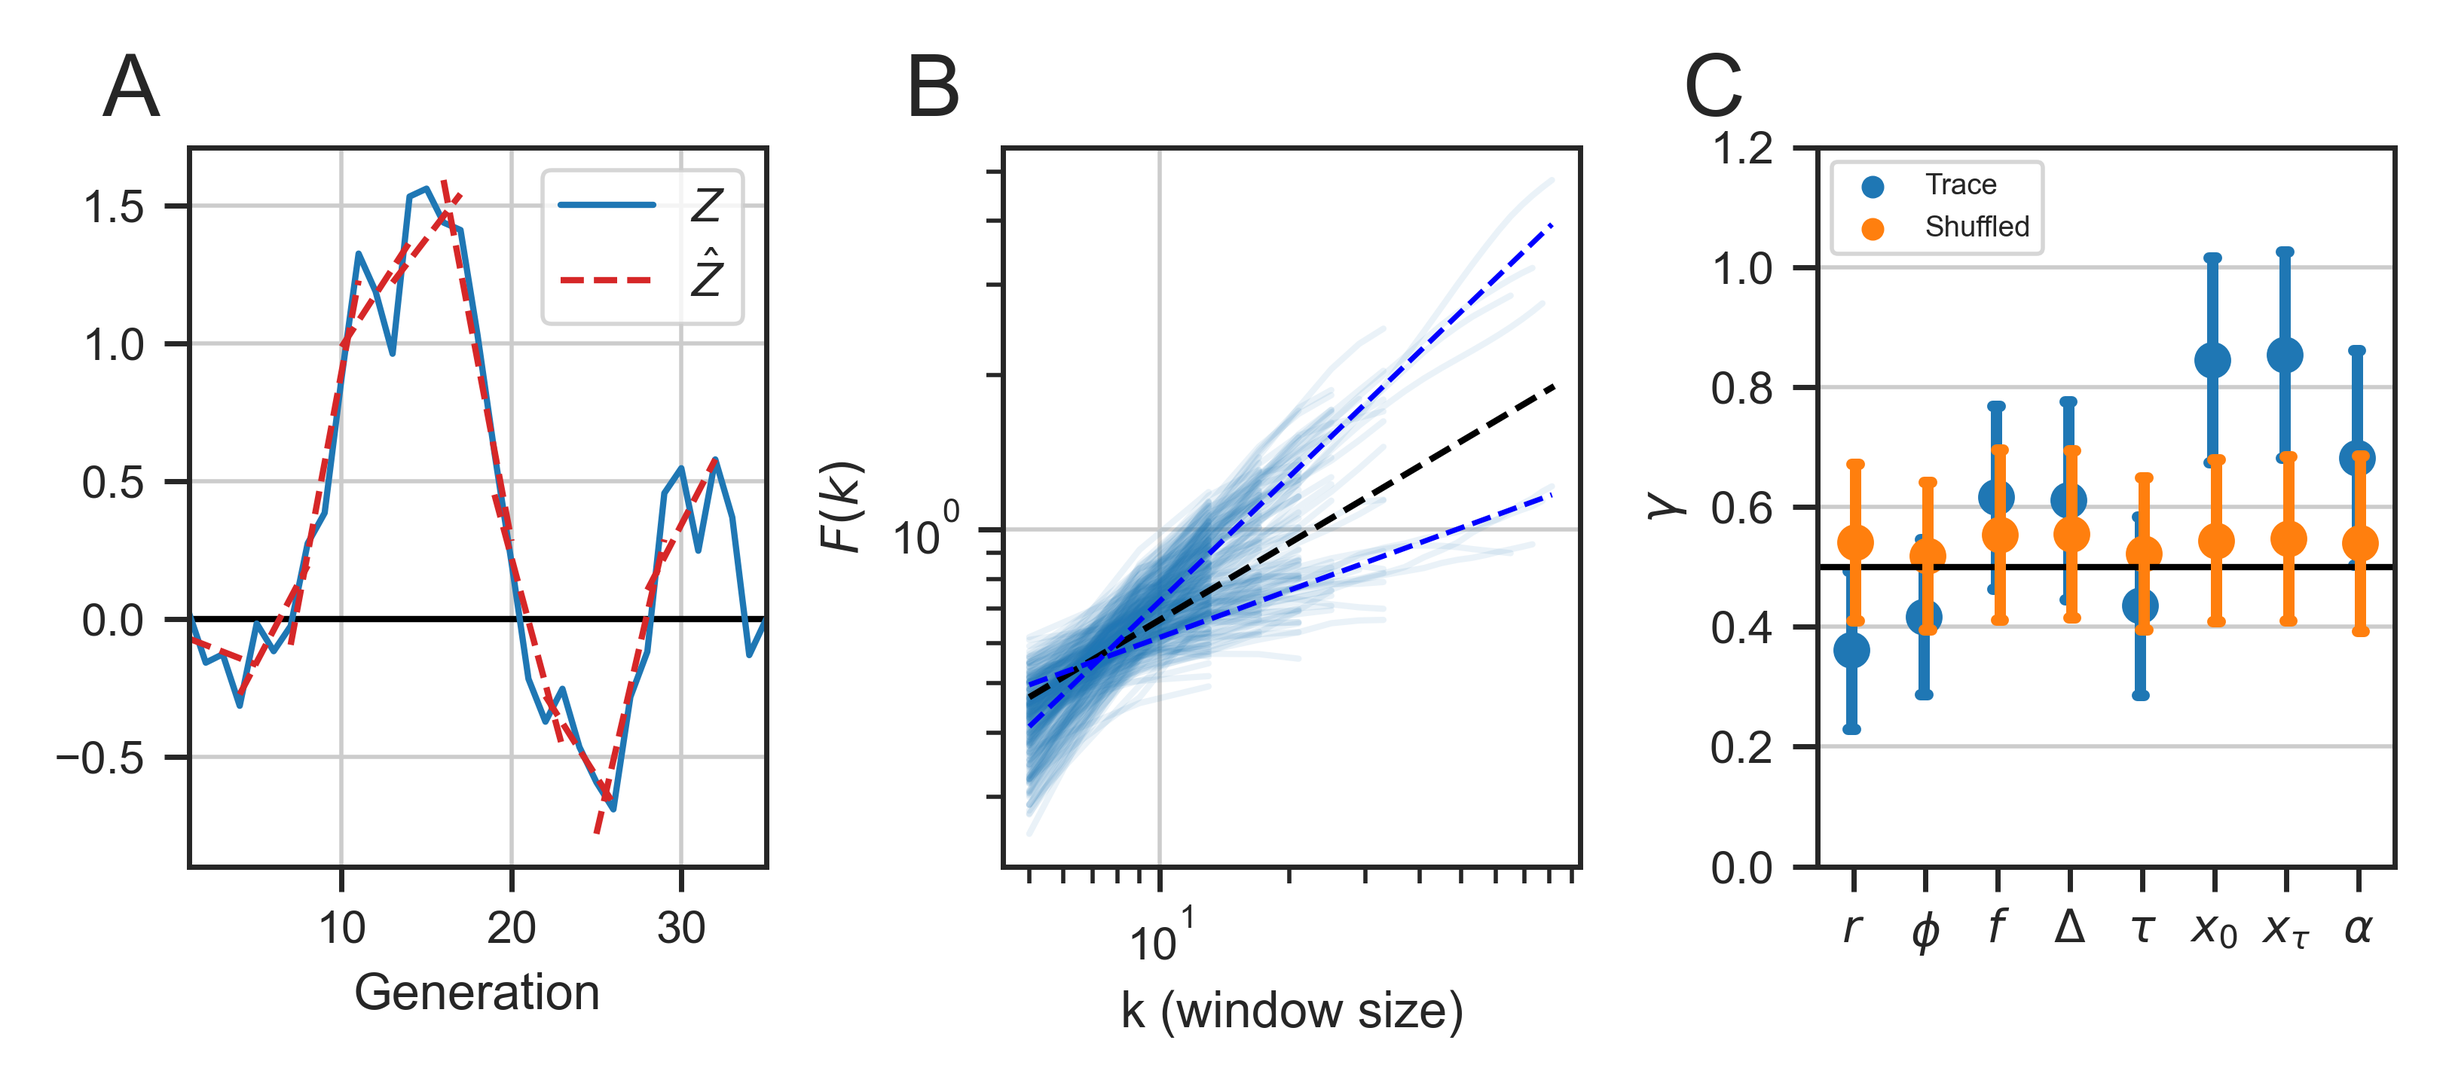
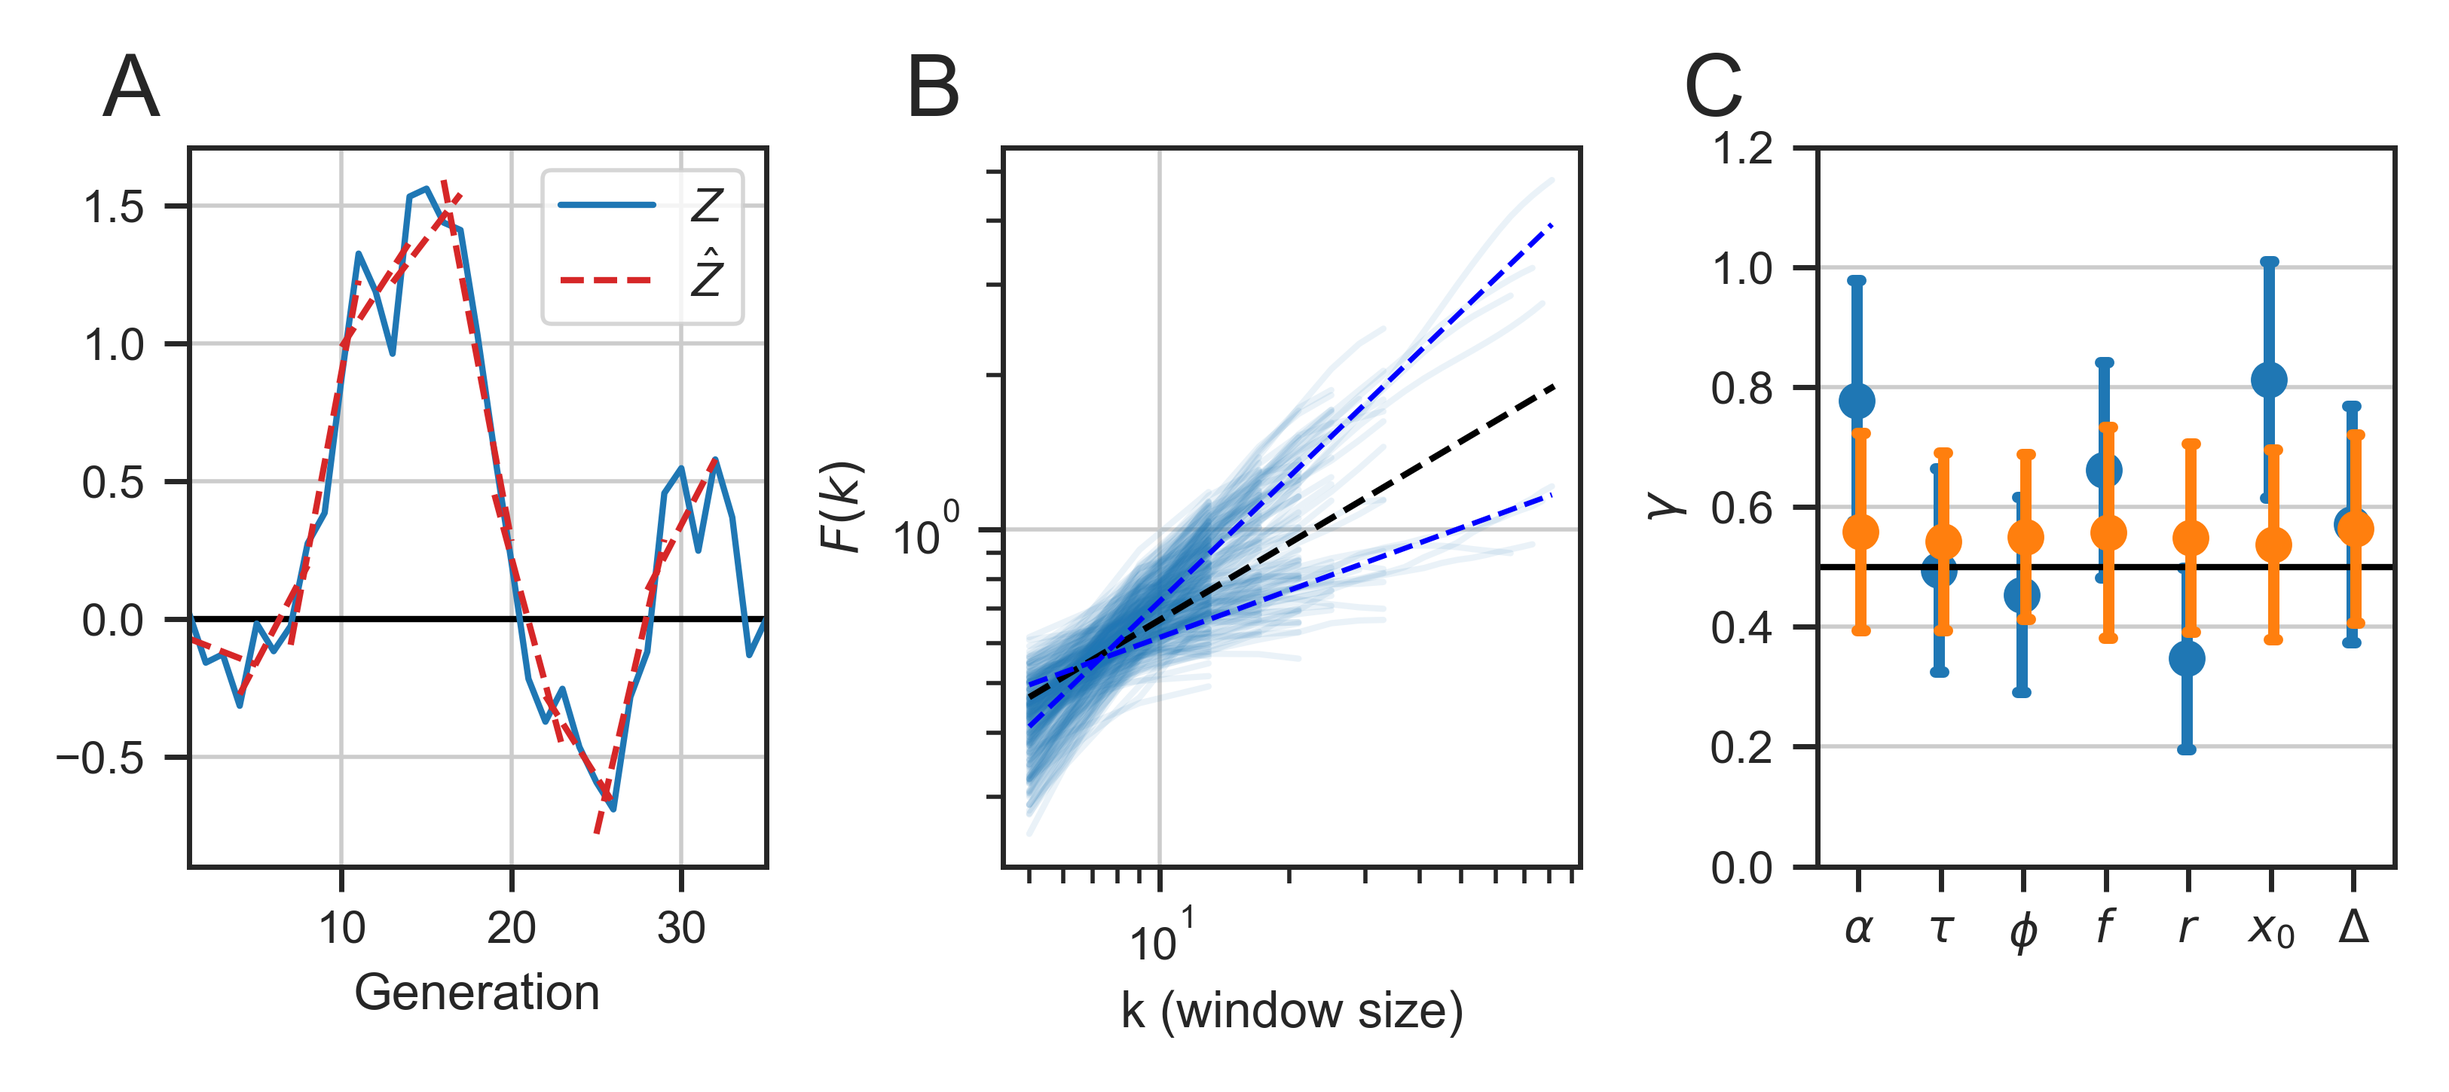
16/3/21

Changed region(s): [[0.7458, 0.1241, 0.9945, 0.6828], [0.7458, 0.8379, 0.9634, 0.869]]

diff --git a/TablesSupp/create tables.py b/TablesSupp/create tables.py
@@ -6,69 +6,60 @@ from AnalysisCode.global_variables import (
 import pandas as pd
 import numpy as np
 
+
+ds_names = [ds for ds in dataset_names if ds != 'Pooled_SM']
+
+# Different strains of all the
 strain = [
-    'MG1655', 'MG1655', 'MG1655', 'MG1655', 'MG1655', 'MG1655', 'MG1655', 'MG1655', 'K-12 substr. MC4100', 'K-12 substr. MC4100', 'K-12 substr. MC4100', 'B/r SJ119', 'MG1655 lexA3', 'MG1655 lexA3',
-    'MG1655 lexA3', 'MG1655 (CGSC 6300)', 'MG1655 (CGSC 6300)', 'MG1655 (CGSC 6300)', 'MG1655 (CGSC 6300)', 'MG1655 (CGSC 6300)', 'MG1655 (CGSC 6300)'
+    'MG1655', 'MG1655', 'MG1655', 'MG1655', 'MG1655', 'MG1655', 'MG1655', 'MG1655', 'K-12 substr. MC4100', 'K-12 substr. MC4100', 'K-12 substr. MC4100', 'MG1655 (CGSC 6300)', 'MG1655 (CGSC 6300)',
+    'MG1655 (CGSC 6300)', 'MG1655 (CGSC 6300)', 'MG1655 (CGSC 6300)', 'MG1655 (CGSC 6300)', 'MG1655 lexA3', 'MG1655 lexA3', 'MG1655 lexA3'
 ]
 
-dates = ['15/10/18', '27/6/18', '13/7/18', '28/7/18', '12/10/18', 'Pooled exps.', 'Pooled exps.', 'Pooled exps.', '', '', '', '29/5/9', '30/9/9', '23/9/9', '22/9/9', '10/2/9',
-         '29/1/9', '2/7/9', '31/1/9', '25/5/9', '12/5/9']
+dates = ['15/10/18', '27/06/18', '13/07/18', '28/07/18', '12/10/18', 'Pooled exps.', 'Pooled exps.', 'Pooled exps.', '', '', '', '10/02/09', '29/01/09', '02/07/09', '31/01/09', '25/05/09',
+         '12/05/09', '30/09/09', '23/09/09', '22/09/09']
+# dates = ['15/10/18', '27/06/18', '13/07/18', '28/07/18', '12/10/18', 'Pooled exps.', 'Pooled exps.', 'Pooled exps.', '', '', '', '29/5/09', '30/9/09', '23/9/09', '22/9/09', '10/2/09',
+#          '29/1/09', '2/7/09', '31/1/09', '25/5/09', '12/5/09']
 
 temp = ['32', '32', '32', '32', '32', '32', '32', '32', '25', '27', '37', '37', '37', '37', '37', '37', '37', '37', '37', '37']
+# temp = ['32', '32', '32', '32', '32', '32', '32', '32', '25', '27', '37', '37', '37', '37', '37', '37', '37', '37', '37', '37']
 
 references = [
     'Vashistha 2021', 'Vashistha 2021', 'Vashistha 2021', 'Vashistha 2021', 'Vashistha 2021',
-    'Susman 2018', 'Korham 2020', 'Susman 2018', 'Tanouchi 2015 (25C)', 'Tanouchi 2015 (27C)', 'Tanouchi 2015 (37C)', 'Wang 2010 (10/2/9)', 'Wang 2010 (29/1/9)',
-    'Wang 2010 (2/7/9)', 'Wang 2010 (31/1/9)', 'Wang 2010 (25/5/9)', 'Wang 2010 (12/5/9)', 'Wang 2010 (30/9/9)', 'Wang 2010 (23/9/9)', 'Wang 2010 (22/9/9)'
+    'Susman 2018', 'Korham 2020', 'Susman 2018', 'Tanouchi 2015', 'Tanouchi 2015', 'Tanouchi 2015', 'Wang 2010', 'Wang 2010',
+    'Wang 2010', 'Wang 2010', 'Wang 2010', 'Wang 2010', 'Wang 2010', 'Wang 2010', 'Wang 2010'
 ]
 
 num_of_lineages = []
 
 generation_per_lineage = []
 
-ds_names = [ds for ds in dataset_names if ds != 'Pooled_SM']
-
 for ds in ds_names:
     print(ds)
+    # import the data
     pu = pd.read_csv(f'/Users/alestawsky/PycharmProjects/Thesis/Datasets/{ds}/ProcessedData/z_score_under_3/physical_units_without_outliers.csv')
+    # number of lineages
     num_of_lineages.append(len(pu.lineage_ID.unique()))
+    # mean and std of gen per lineage
     m = np.mean([len(pu[pu['lineage_ID'] == lin_id]['generation'].values) for lin_id in pu.lineage_ID.unique()])
     s = np.std([len(pu[pu['lineage_ID'] == lin_id]['generation'].values) for lin_id in pu.lineage_ID.unique()])
-    generation_per_lineage.append(f'${int(np.round(m, 0))}\pm{int(np.round(s, 0))}$')
+    generation_per_lineage.append(f'${int(np.round(m, 0))}\pm{int(np.round(s, 0))}$')  # Add it as a string
 
-for name, group in zip(['Wang 2010, CGSC 6300', 'Wang 2010, lexA3', 'Susman and Kohram', 'Vashistha 2021', 'Tanouchi 25C', 'Tanouchi 27C', 'Tanouchi 37C'],
-                       [cgsc_6300_wang_exps, lexA3_wang_exps, mm_datasets, ['Pooled_SM'], ['MC4100_25C (Tanouchi 2015)'], ['MC4100_27C (Tanouchi 2015)'], ['MC4100_37C (Tanouchi 2015)']]):
-    print(name, group)
-    
-    for ds in group:
-        print(ds)
-        pu = pd.read_csv(f'/Users/alestawsky/PycharmProjects/Thesis/Datasets/{ds}/ProcessedData/z_score_under_3/physical_units_without_outliers.csv')
-        num_of_lineages.append(len(pu.lineage_ID.unique()))
-        m = np.mean([len(pu[pu['lineage_ID'] == lin_id]['generation'].values) for lin_id in pu.lineage_ID.unique()])
-        s = np.std([len(pu[pu['lineage_ID'] == lin_id]['generation'].values) for lin_id in pu.lineage_ID.unique()])
-        generation_per_lineage.append(f'${m}\pm{s}$')
-
-print(len(ds_names), len(references))
+assert len(ds_names) == len(dates) == len(strain) == len(references) == len(temp) == len(generation_per_lineage)
 
 gc = {count: {
     'Exp.': f'${count}$', 'Ref.': ref, '# of lins.':  f'${nl}$', '# of gens.': gpl, 'Temp. (C)':  f'${t}$', 'Strain':  stra,
     'Date':  f'${da}$'
-} for ds, ref, count, nl, gpl, t, stra, da in zip(dataset_names, references, range(len(references)), num_of_lineages, generation_per_lineage, temp, strain, dates) if ds != 'Pooled_SM'}
+} for ds, ref, count, nl, gpl, t, stra, da in zip(ds_names, references, range(len(references)), num_of_lineages, generation_per_lineage, temp, strain, dates)}
 
 growth_conditions = pd.DataFrame.from_dict(gc, "index")
 
 print(growth_conditions.to_latex(float_format="{:0.2f}".format, index=False, escape=False))
 
-length_latex = pd.DataFrame(columns=['Exp.',
-                                     '# of lineages',
-                                     '# of cycles per lineage',
-                                     '# lineages with at least 30 cycles'])
+
 cv_latex = pd.DataFrame(columns=['Experiment Label'] + [symbols['physical_units'][p] for p in phenotypic_variables])
 
 count = 0
-for ds in dataset_names:
-    if ds == 'Pooled_SM':
-        continue
+for ds in ds_names:
     print(count, ds)
     
     pu = pd.read_csv(f'/Users/alestawsky/PycharmProjects/Thesis/Datasets/{ds}/ProcessedData/z_score_under_3/physical_units_without_outliers.csv')
@@ -80,9 +71,20 @@ for ds in dataset_names:
     cv_latex = cv_latex.append(to_add, ignore_index=True)
     
     count += 1
+ 
+to_add = {'Experiment Label': 'CV'}
+# print('999')
+#
+# print(np.round(cv_latex.mean(), 2))
+# print(np.round(cv_latex.std(), 2))
+# print(np.round(cv_latex.std() / cv_latex.mean(), 2))
+#
+# exit()
 
-print(cv_latex.mean())
+# for m, s, p in zip(np.round(cv_latex.mean(), 2).values[1:], np.round(cv_latex.std(), 2).values[1:], np.array(cv_latex.columns)[1:]):
+#     print(p, s / m)
+to_add.update({p: f'{m} {s}' for m, s, p in zip(np.round(cv_latex.mean(), 2).values[1:], np.round(cv_latex.std(), 2).values[1:], np.array(cv_latex.columns)[1:])})
 
-print(cv_latex.std())
+cv_latex = cv_latex.append(to_add, ignore_index=True)
 
 print(cv_latex.to_latex(float_format="{:0.2f}".format, index=False))

diff --git a/ConditionedVariance/variance_decomposed.py b/ConditionedVariance/variance_decomposed.py
@@ -134,11 +134,11 @@ def vd_with_trap_and_lineage(variables, lin_type, ax):
             'Trap': 0,
             'kind': 'NA'
         }, ignore_index=True)
-    
+
     # The order we want them to appear in
-    real_order = ['', symbols['physical_units']['growth_rate'], symbols['physical_units']['generationtime'], symbols['physical_units']['fold_growth'],
-                  symbols['physical_units']['division_ratio'], symbols['physical_units']['div_and_fold'], ' ', symbols['physical_units']['length_birth'],
-                  symbols['physical_units']['added_length'], '  ', '   ']
+    real_order = np.array(['', symbols['physical_units']['growth_rate'], symbols['physical_units']['generationtime'], symbols['physical_units']['fold_growth'],
+                           symbols['physical_units']['division_ratio'], symbols['physical_units']['div_and_fold'], ' ', symbols['physical_units']['length_birth'],
+                           symbols['physical_units']['added_length'], '  ', '   '])
     
     # # The order they appear in
     # real_order = ['', symbols['physical_units']['div_and_fold'], symbols['physical_units']['division_ratio'], symbols['physical_units']['fold_growth'], ' ',
@@ -146,14 +146,14 @@ def vd_with_trap_and_lineage(variables, lin_type, ax):
     #               symbols['physical_units']['growth_rate'], '   ']
     
     # Fill in the grey area of the noise
-    plt.fill_between(output_df.variable.unique(),
-                     [output_df[output_df['kind'] == 'Artificial']['Trap+Lin'].mean() for _ in range(len(output_df.variable.unique()))],
-                     [0 for _ in range(len(output_df.variable.unique()))], color='lightgrey')
+    plt.fill_between(real_order,
+                     [output_df[output_df['kind'] == 'Artificial']['Trap+Lin'].mean() for _ in range(len(real_order))],
+                     [0 for _ in range(len(real_order))], color='lightgrey')
     
     # Plot the barplots
     for color, y, label in zip([cmap[0], cmap[1]], ['Trap+Lin', 'Trap'], [r'$\Gamma_{Lin}$', r'$\Gamma_{Env}$']):
         # palette = {"Trace": color, "Artificial": 'red'}
-        sns.barplot(x='variable', y=y, data=output_df[output_df['kind'] == 'Trace'], color=color, edgecolor='black', label=label, order=real_order)
+        sns.barplot(x='variable', y=y, data=output_df[output_df['kind'] == 'Trace'], color=color, edgecolor='black', label=label, order=real_order[1:-2])
     
     # The legend
     handles, labels = ax.get_legend_handles_labels()
@@ -264,9 +264,9 @@ def mm_traps(chosen_datasets, ax):
     }, ignore_index=True)
     
     # The order we want them to appear in
-    real_order = ['', symbols['physical_units']['growth_rate'], symbols['physical_units']['generationtime'], symbols['physical_units']['fold_growth'],
+    real_order = np.array(['', symbols['physical_units']['growth_rate'], symbols['physical_units']['generationtime'], symbols['physical_units']['fold_growth'],
                   symbols['physical_units']['division_ratio'], symbols['physical_units']['div_and_fold'], ' ', symbols['physical_units']['length_birth'],
-                  symbols['physical_units']['added_length'], '  ', '   ']
+                  symbols['physical_units']['added_length'], '  ', '   '])
     
     # # The order we want them to appear in
     # real_order = ['', symbols['physical_units']['div_and_fold'], symbols['physical_units']['division_ratio'], symbols['physical_units']['fold_growth'], ' ',
@@ -277,12 +277,12 @@ def mm_traps(chosen_datasets, ax):
     conds = (output_df['kind'] == 'Artificial') & (~output_df['variable'].isin(['', ' ', '  ', '   ']))
     
     # Plot the grey noise line
-    ax.fill_between(output_df.variable.unique(),
-                    [output_df[conds]['Lin'].mean() for _ in range(len(output_df.variable.unique()))],
-                    [0 for _ in range(len(output_df.variable.unique()))], color='lightgrey')
+    ax.fill_between(real_order,
+                    [output_df[conds]['Lin'].mean() for _ in range(len(real_order))],
+                    [0 for _ in range(len(real_order))], color='lightgrey')
     
     # Plot the barplots
-    sns.barplot(x='variable', y='Lin', data=output_df[output_df['kind'] == 'Trace'], color=cmap[0], edgecolor='black', label='Lineage', order=real_order, ax=ax)
+    sns.barplot(x='variable', y='Lin', data=output_df[output_df['kind'] == 'Trace'], color=cmap[0], edgecolor='black', label='Lineage', order=real_order[1:-2], ax=ax)
     
     # The legend in the plot
     handles, labels = ax.get_legend_handles_labels()
@@ -323,6 +323,8 @@ axes[1].set_title('B', x=-.3, fontsize='xx-large')
 axes[2].set_title('C', x=-.3, fontsize='xx-large')
 
 cell_cycle_illustration(axes[0])
+axes[0].set_xlim([1.48, 2.4])
+axes[0].set_ylim([2.8, 6.5])
 axes[0].set_ylabel(r'length $(\mu$m$)$')
 axes[0].set_xlabel(r'time $($hr$)$')
 
@@ -343,5 +345,5 @@ vd_with_trap_and_lineage(phenotypic_variables, lin_type='NL', ax=axes[2])
 
 plt.tight_layout()
 plt.show()  # has to be manually adjusted to some degree
-plt.savefig('testing.png', dpi=300)
+# plt.savefig('vd_square.png', dpi=300)
 plt.close()

diff --git a/MicroenvironmentAverageBehavior/alpha_tau_code.py b/MicroenvironmentAverageBehavior/alpha_tau_code.py
@@ -23,8 +23,9 @@ def add_scatterplot_of_averages(var1, var2, pooled, time_average, ax, type_of_li
         second = time_average.sort_values('lineage_ID')[var2]  # [df[df['lineage_ID'] == lin_id][var2].mean() for lin_id in df.lineage_ID.unique() if len(df[df['lineage_ID'] == lin_id]) > 6]
         ax.scatter(first, second, marker=marker, c=cmap[0] if type_of_lineage == 'Trace' else cmap[1], zorder=500, alpha=.6,
                    label=type_of_lineage)
-        print(f'Trace averages correlation: {pearsonr(first, second)[0]}' if type_of_lineage == 'Trace'
-              else f'Artificial averages correlation: {pearsonr(first, second)[0]}')
+        print(f'TA {type_of_lineage} correlation {var1} {var2}, pearson: {pearsonr(first, second)[0]}, covariance: {np.cov(first, second)[0, 1]}, stds: {np.std(first), np.std(second)}')
+        # print(f'Trace averages correlation: {pearsonr(first, second)[0]}' if type_of_lineage == 'Trace'
+        #       else f'Artificial averages correlation: {pearsonr(first, second)[0]}')
 
 
 def plot_binned_data(df, var1, var2, num, ax):
@@ -52,14 +53,11 @@ def kde_scatterplot_variables(df, var1, var2, num, ax, line_func=[], line_label=
 
     df = df[df['max_gen'] > 15].copy().reset_index(drop=True)  # Take out extra small lineages
     
-    print(len(df))
-    
     if isinstance(artificial, pd.DataFrame):  # If artificial lineages is a dataframe, plot those too
         artificial = artificial[artificial['max_gen'] > 7].copy().reset_index(drop=True)  # Take out extra small lineages
         add_scatterplot_of_averages(var1, var2, pooled, artificial, ax, 'Artificial')  # How a random average behavior is supposed to act when only keeping per-cycle correlations
         
         no_nans_art = artificial[[var1, var2]].copy().dropna()  # drop the NaNs
-        print(f'pooled correlation (Artificial): {pearsonr(no_nans_art[var1].values, no_nans_art[var2].values)[0]}')
     
     # To speed it up we sample randomly 1,000 points
     # sns.kdeplot(data=pu, x=var1, y=var2, color='gray', ax=ax)  # Do the kernel distribution approxiamtion for variables in their physical dimensions
@@ -83,10 +81,11 @@ def kde_scatterplot_variables(df, var1, var2, num, ax, line_func=[], line_label=
     ax.set_ylabel(sym2)
     # ax.legend(title='')
     
-    no_nans = df[[var1, var2]].copy().dropna()
-    
-    print('kde scatter plot')
-    print(f'pooled correlation (Trace): {pearsonr(no_nans[var1].values, no_nans[var2].values)[0]}')
+    no_nans = pu[[var1, var2]].copy().dropna()  # To print the correlations covariance and stds
+    x_a, y_b = no_nans[var1].values, no_nans[var2].values
+
+    print(np.cov(x_a, y_b))
+    print(f'PU pooled correlation {var1} {var2}, pearson: {pearsonr(x_a, y_b)[0]}, covariance: {np.cov(x_a, y_b)[0, 1]}, stds: {np.var(x_a), np.var(y_b)}')
     print('-' * 200)
 
 
@@ -149,7 +148,8 @@ def plot_pair_scatterplots(df, var1, var2, ax, sym1=None, sym2=None):
     ax.set_xlabel(sym1)
     ax.set_ylabel(sym2)
     
-    print(f'pair scatterplot {var1} {var2}: {pearsonr(x_a, y_b)[0]}')
+    print(np.cov(x_a, y_b))
+    print(f'pair scatterplot {var1} {var2}, pearson: {pearsonr(x_a, y_b)[0]}, covariance: {np.cov(x_a, y_b)[0, 1]}, stds: {np.var(x_a)}')
 
 
 #########################################
@@ -218,6 +218,6 @@ plot_pair_scatterplots(pu, 'growth_rate', 'growth_rate', axes[0, 0])
 plot_pair_scatterplots(pu, 'fold_growth', 'fold_growth', axes[1, 0])
 plot_pair_scatterplots(pu, 'division_ratio', 'division_ratio', axes[1, 1])  # , sym1=r'$\overline{\ln(f)}^{\, A}$', sym2=r'$\overline{\ln(f)}^{\, B}$')
 # plt.legend()
-plt.savefig('alpha_tau.png', dpi=300)
+# plt.savefig('alpha_tau.png', dpi=300)
 plt.show()
 plt.close()

diff --git a/size_by_gentime.py b/size_by_gentime.py
@@ -1,0 +1,46 @@
+#!/usr/bin/env bash
+
+from AnalysisCode.global_variables import (
+    symbols, create_folder, phenotypic_variables, cmap, seaborn_preamble, sm_datasets, cgsc_6300_wang_exps, lexA3_wang_exps, mm_datasets, dataset_names, shuffle_lineage_generations, tanouchi_datasets
+)
+import pandas as pd
+import matplotlib.pyplot as plt
+import numpy as np
+import seaborn as sns
+from scipy.stats import linregress, pearsonr
+from itertools import combinations
+import os
+
+
+for ds in ['Pooled_SM']:  # dataset_names:
+    print(ds)
+    # import the data
+    pu = pd.read_csv(f'/Users/alestawsky/PycharmProjects/Thesis/Datasets/{ds}/ProcessedData/z_score_under_3/physical_units_without_outliers.csv')
+    
+    # stds, gentime = [], []
+    #
+    # for linid in pu.lineage_ID.unique():
+    #     # print(linid)
+    #     trace = pu[pu['lineage_ID'] == linid].copy()
+    #
+    #     # print(trace)
+    #     # exit()
+    #
+    #     stds.append(trace['length_birth'].std() / (trace['length_birth'].mean() ** 2))
+    #     gentime.append(trace['generationtime'].mean())
+    #
+    # sns.regplot(x=gentime, y=stds, label=np.round(pearsonr(gentime, stds)[0], 2))
+    # plt.legend()
+    # # plt.xlabel(r'$\tau / \langle \tau \rangle$')
+    # # plt.ylabel(r'$\sigma(x_0)$')
+    # plt.show()
+    # plt.close()
+    
+    var1 = 'growth_rate'
+    var2 = 'division_ratio'
+    
+    for tid in pu.trap_ID.unique():
+        trace_a = pu[(pu['lineage_ID'] == tid) & (pu['trace'] == 'A')].sort_values('generation')[[var1, var2]].dropna().copy()
+        trace_b = pu[(pu['lineage_ID'] == tid) & (pu['trace'] == 'B')].sort_values('generation').copy()
+        
+        [trace_a for gen in trace_a.generation.values]

diff --git a/PersistenceMainText/dfa_dataframe_figures_and_illustrations.py b/PersistenceMainText/dfa_dataframe_figures_and_illustrations.py
@@ -476,7 +476,8 @@ def plot_dfa_slopes(ax):
     se = se.replace({'$f_n e^{\phi_{n}}$': r'$r$'})  # Use the latex variable names
     
     plt.axhline(0.5, ls='-', c='k')  # Plot a black like to show what random processes should be like
-    sns.pointplot(data=se, x='variable', y='slope', hue='dataset', join=False, dodge=True, palette=cmap, capsize=.1, ax=ax, ci="sd", zorder=100)  # The error bars
+    sns.pointplot(data=se, x='variable', y='slope', hue='dataset', join=False, dodge=True, palette=cmap, capsize=.1, ax=ax, ci="sd", zorder=100,
+                  order=['$\\alpha$', '$\\tau$', '$\\phi$', '$f$', '$r$', '$x_0$', '$\\Delta$'])  # The error bars
     ax.set_ylabel(r'$\gamma$')
     ax.set_xlabel('')
     # ax.legend(title='', fontsize='small', markerscale=.5)
